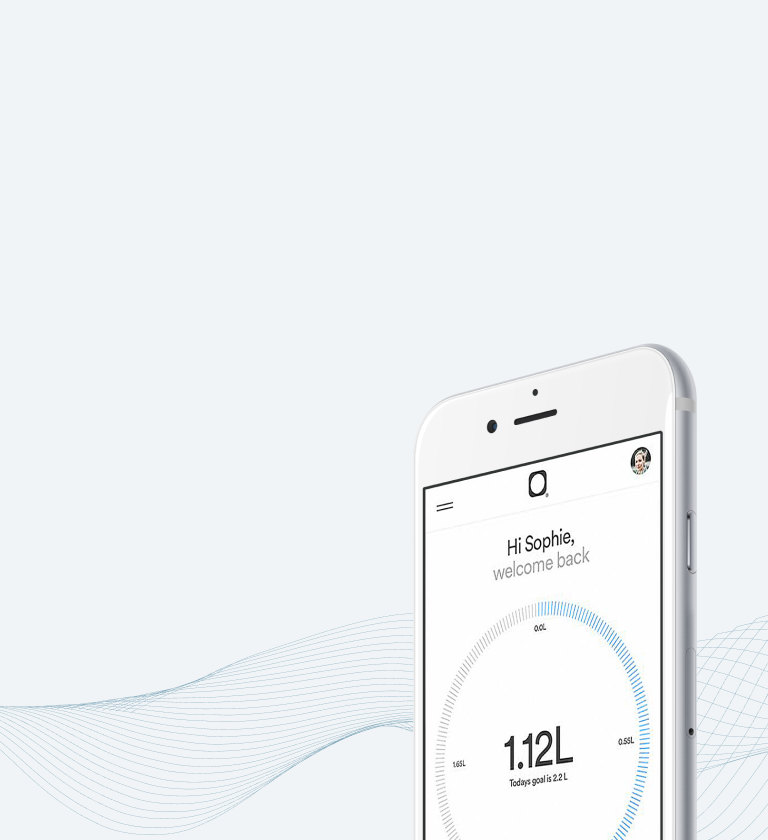
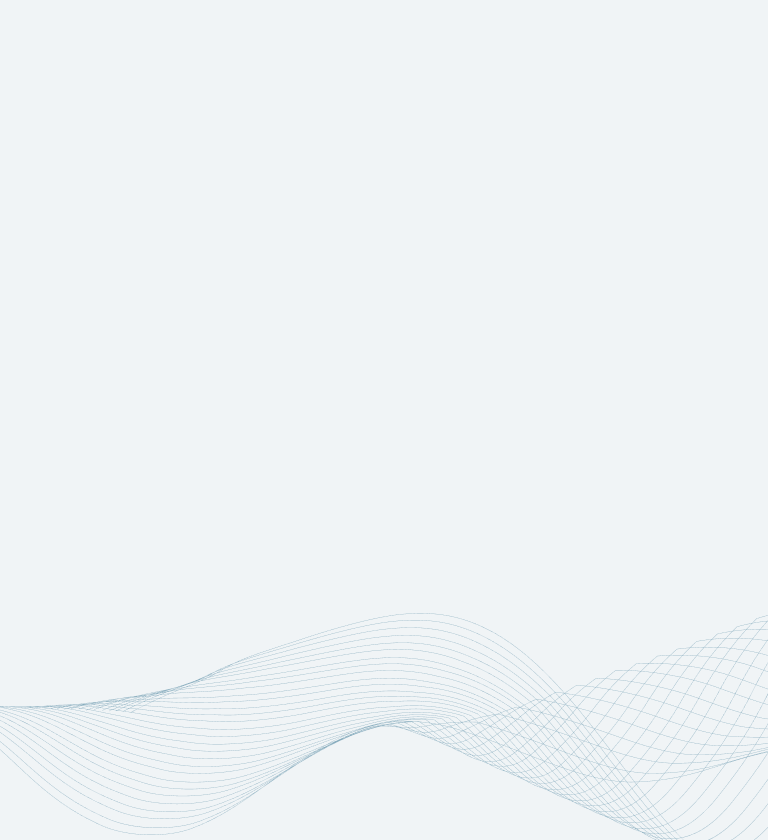
Add parallax online services

diff --git a/src/public/wp-content/themes/app/html/app/css/blocks/home/home-section.scss b/src/public/wp-content/themes/app/html/app/css/blocks/home/home-section.scss
@@ -82,11 +82,6 @@
   }
 
   &--production {
-    .home-section__background {
-      //top: -15%;
-      //opacity: 0;
-      //transition: opacity 0.1s linear;
-    }
 
     @include tablet-and-mobile {
       .home-section__inner {
@@ -109,15 +104,19 @@
   }
 
 
-  &__background {
+  &__background, &__background-top {
     @include fill();
-    z-index: -1;
+    z-index: -2;
 
     img {
       width: 100%;
       height: 100%;
       object-fit: cover;
     }
+  }
+
+  &__background-top {
+    z-index: -1;
   }
 
   &__inner {

diff --git a/src/public/wp-content/themes/app/html/app/js/src/widgets/parallax-section.js b/src/public/wp-content/themes/app/html/app/js/src/widgets/parallax-section.js
@@ -15,13 +15,13 @@ class Parallax {
     let tl = gsap.timeline({
       scrollTrigger: {
         trigger: this.nodeElement,
-        start: '-20% bottom',
-        end: '80% 40%',
+        start: '-15% bottom',
+        end: '70% 70%',
         scrub: true,
         toggleActions: 'restart none reverse reset',
       },
     })
-      .from(this.image, { y: '-15%', opacity: 0.3, ease: 'linear', duration: 2.5 });
+      .from(this.image, { y: '-25%', opacity: 0, ease: 'linear', duration: 2 });
   }
 
 
